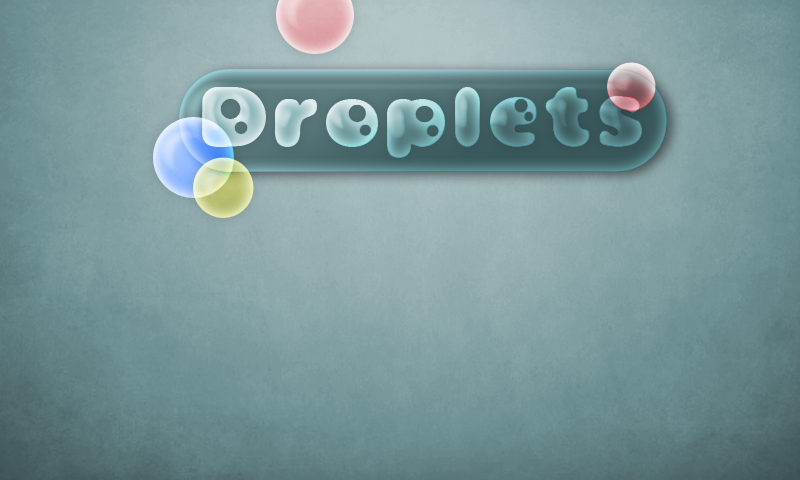
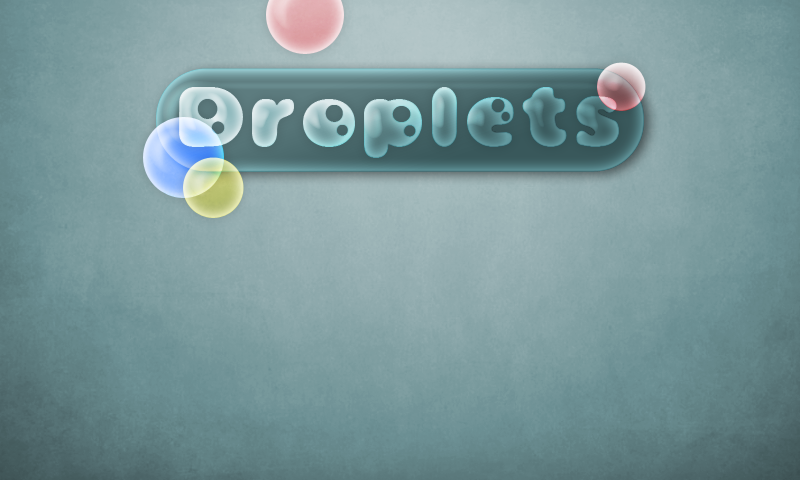
Added some levels to Chapter 4. Menu background changed.

Changed region(s): [[0.1562, 0.125, 0.8438, 0.4688], [0.3125, 0.0, 0.4688, 0.125]]

diff --git a/DropletsForm/DropletsForm.cs b/DropletsForm/DropletsForm.cs
@@ -147,7 +147,7 @@ namespace Droplets
             ChapterNrName.TextAlign = ContentAlignment.MiddleCenter;
             ChapterNrName.Text = "Testing";
             ChapterNrName.Font = new Font("Helvetica", 32, FontStyle.Bold, GraphicsUnit.Pixel);
-            ChapterNrName.ForeColor = System.Drawing.Color.FromArgb(255, 108, 183, 183); //255, 96, 214, 214
+            ChapterNrName.ForeColor = System.Drawing.Color.FromArgb(255, 63, 143, 153); //255, 96, 214, 214
             ChapterNrName.BackColor = System.Drawing.Color.Transparent;
             this.Controls.Add(ChapterNrName);
 
